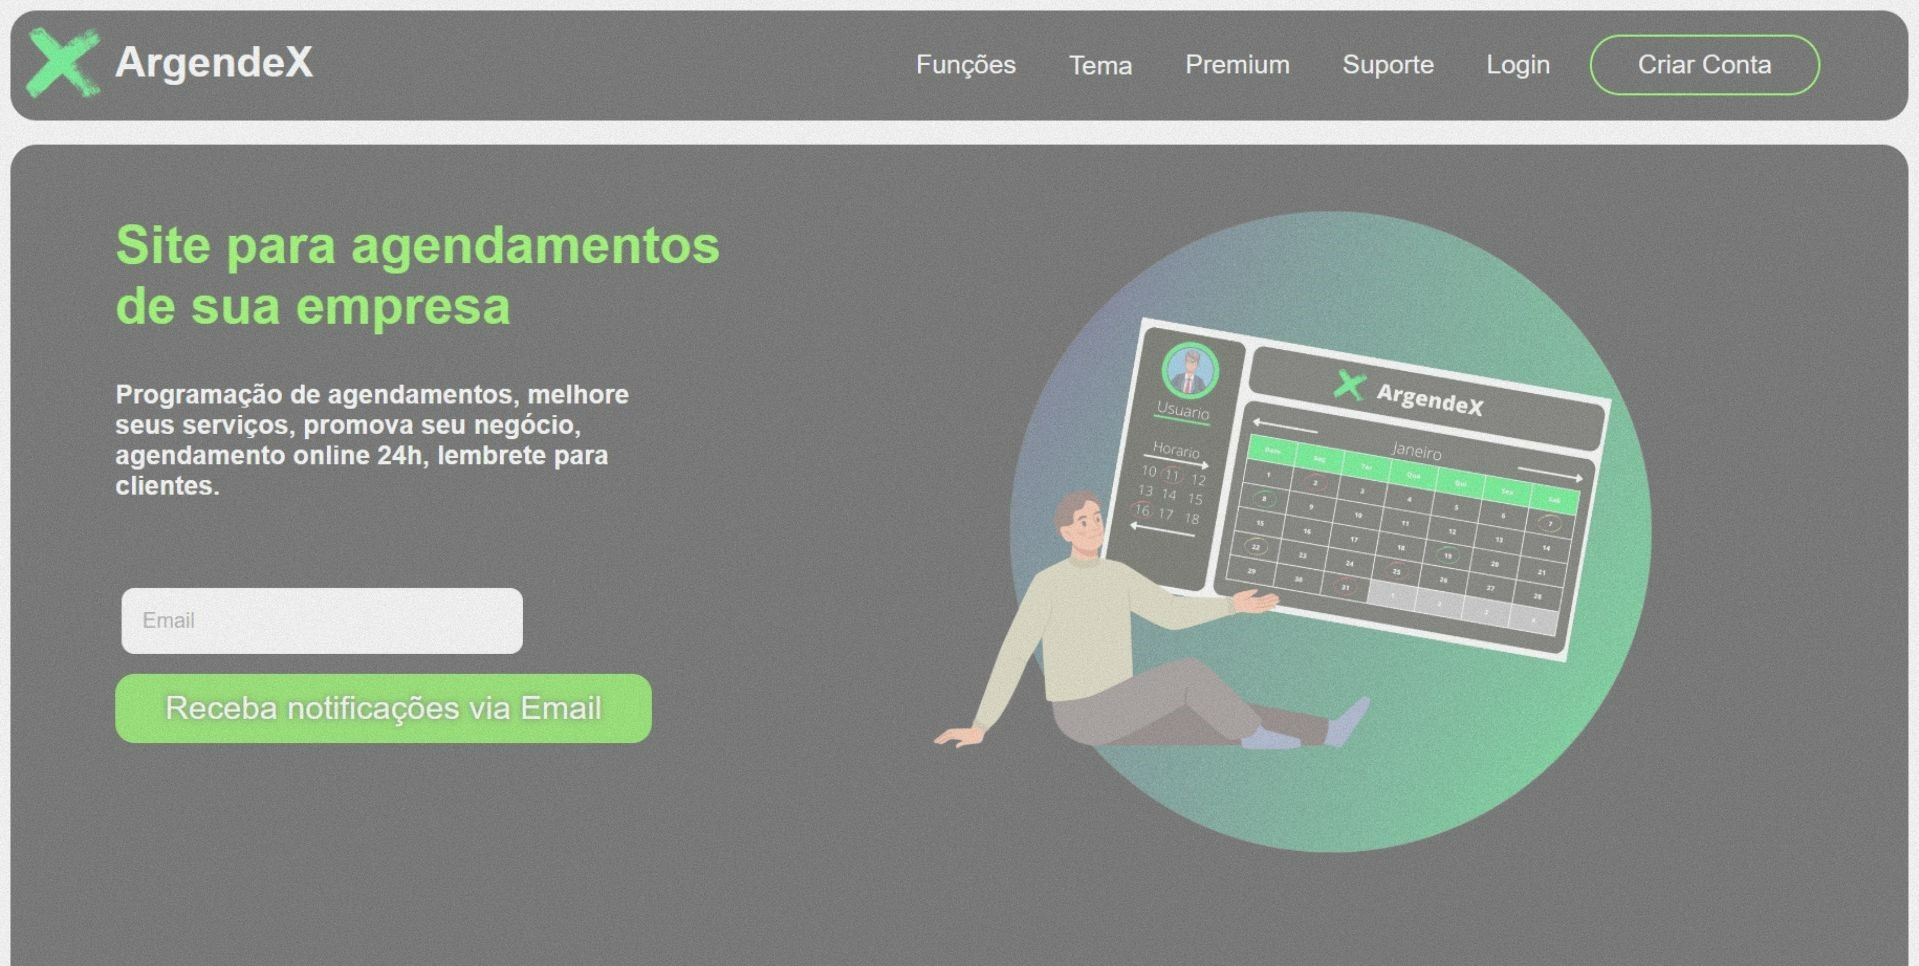
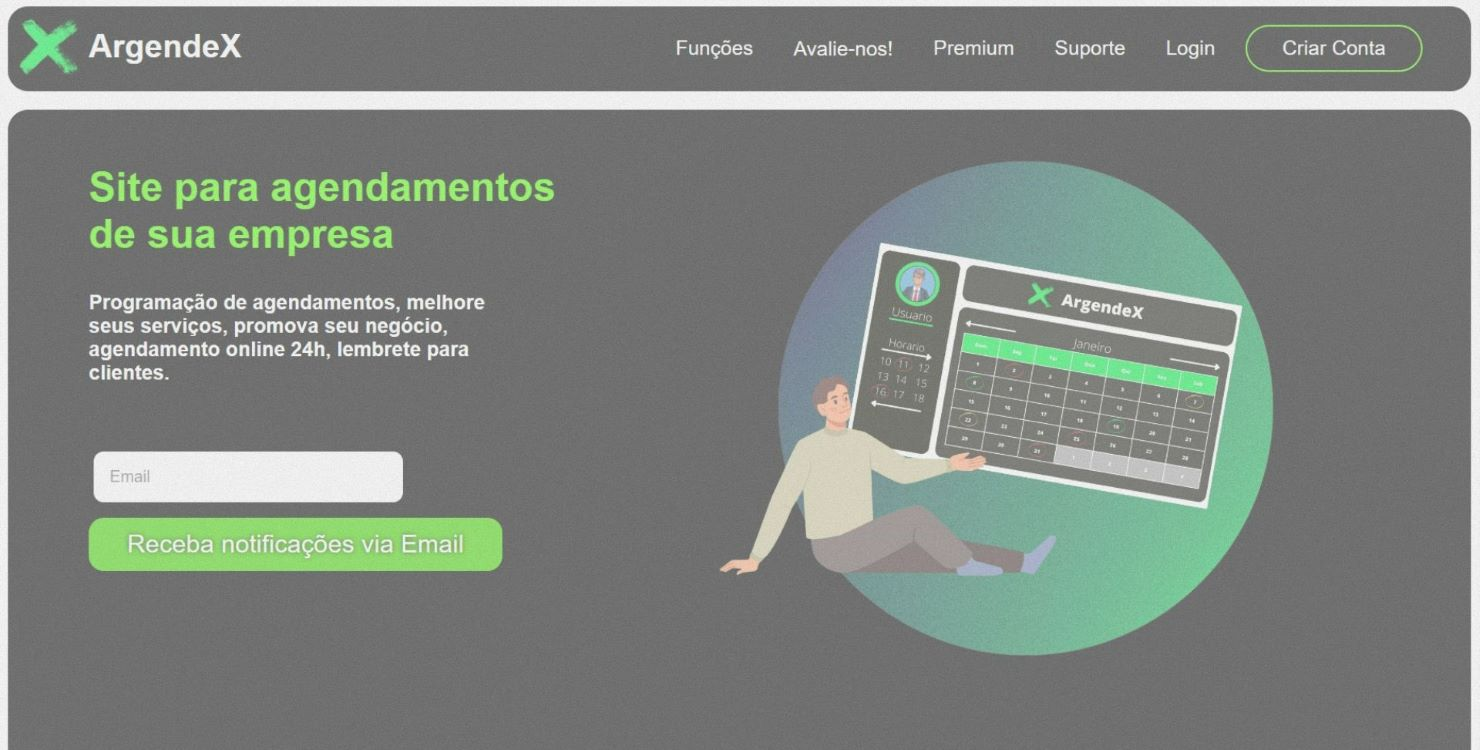
s

diff --git a/index.html b/index.html
@@ -23,20 +23,7 @@
                     <li>Funções</li>
                 </a>
                 <div class="modos">
-                    <li><a href="" id="foi">Tema</a>
-                        <ul class="Submenu">
-                            <div class="plus">
-                                <li><a href="index.html">Green</a>
-                                </li>
-                                <br>
-                                <li><a href="Indexblue.html">Blue</a>
-                                </li>
-                                <br>
-                                <li><a href="indexred.html">Red</a>
-                                </li>
-                            </div>
-                        </ul>
-                    </li>
+                    <a href="avaliacao.html" id="foi">Avalie-nos!</a>
                 </div>
                 <a href="#premium">
                     <li>Premium</li>

diff --git a/css/style.css b/css/style.css
@@ -31,7 +31,7 @@ li {
 nav {
     display: flex;
     align-items: center;
-    padding-left: 450px;
+    padding-left: 420px;
     padding-top: 18px;
 }
 
@@ -45,24 +45,6 @@ nav {
 .menu a:hover {
     color: rgb(81, 255, 0);
 
-}
-
-ul {
-    margin: 5px;
-    padding: 5px;
-    align-items: flex-end;
-    position: absolute;
-
-}
-
-.modos ul {
-    visibility: hidden;
-
-
-}
-
-.modos:hover ul {
-    visibility: visible
 }
 
 * {

diff --git a/css/avaliacao.css b/css/avaliacao.css
@@ -7,7 +7,7 @@
 }
 
 body {
-    background-image:url(Design\ sem\ nome\ \(5\).png) ;
+    background-image:url(site\ cinza.jpg) ;
 }
 
 
